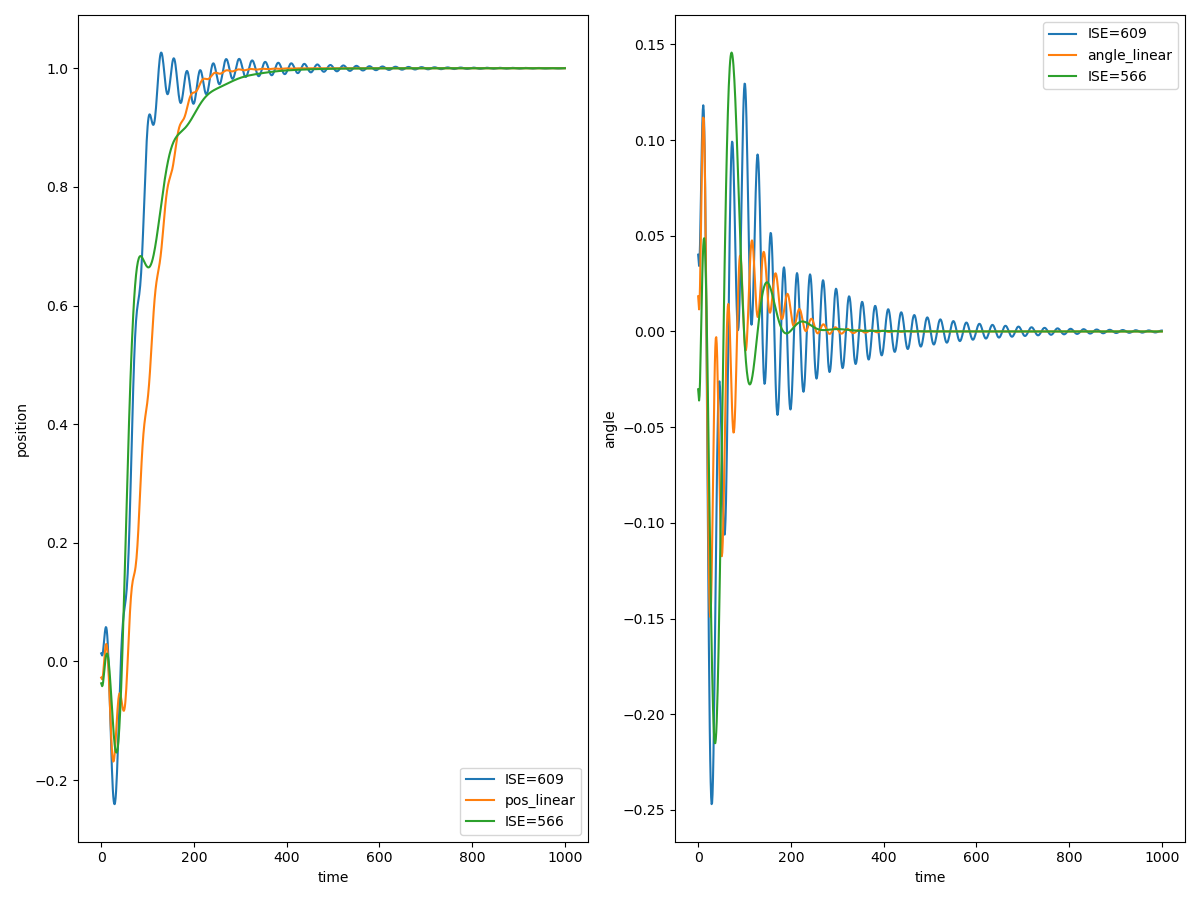
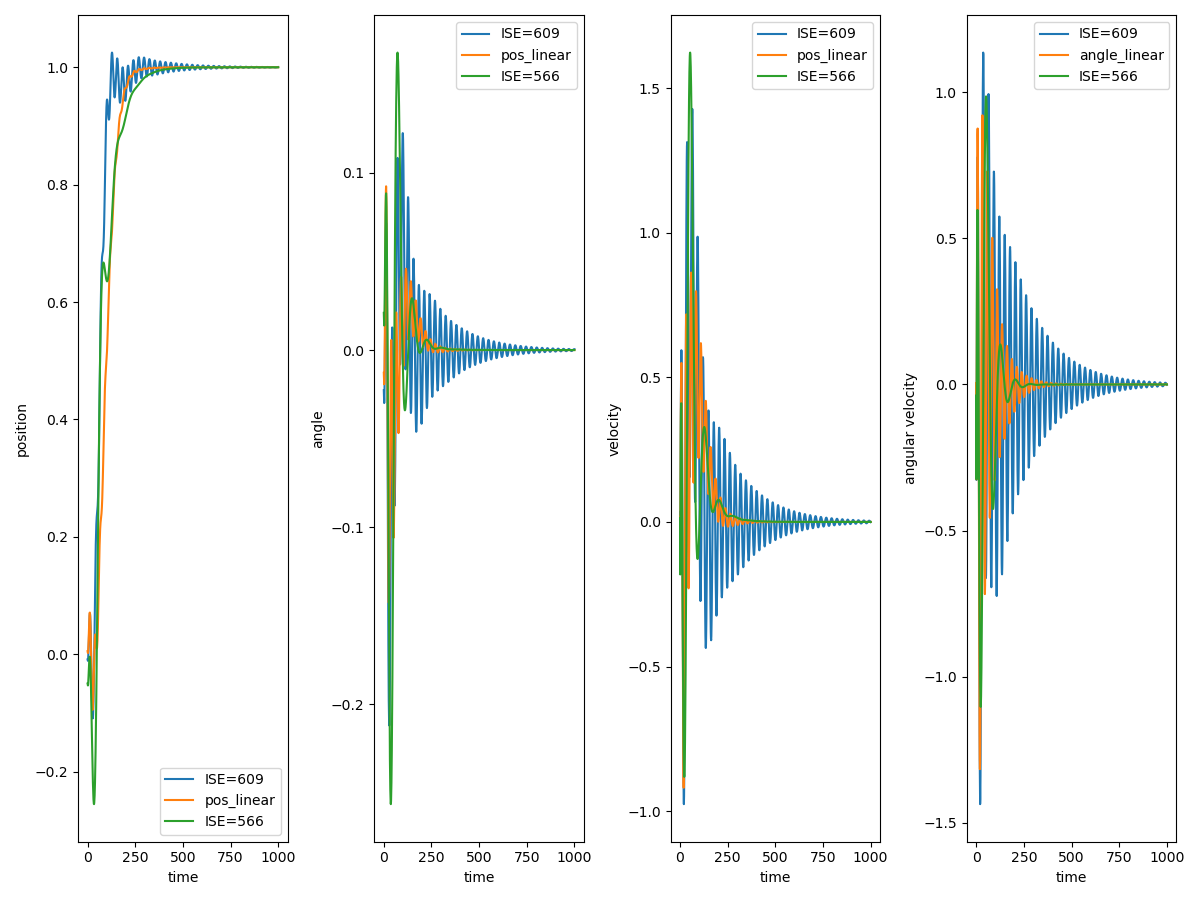
added graphs of v, w

diff --git a/convergence.py b/convergence.py
@@ -20,21 +20,21 @@ PID_baseline = np.array([[-57, 103], [-34, 87], [-13,  16]])   # baseline, ISE =
 # run simulation
 # env.iterreset(custom=np.array([0, 0, 0, 0]))
 env.iterreset()
-_, x, theta = env.step(PID)
+_, x, v, theta, w = env.step(PID)
 
 # env.iterreset(custom=np.array([0, 0, 0, 0]))
 env.iterreset()
-_, x_baseline, theta_baseline = env.step(PID_baseline)
+_, x_baseline, v_baseline, theta_baseline, w_baseline = env.step(PID_baseline)
 
 
 # env.iterreset(custom=np.array([0, 0, 0, 0]))
 env.iterreset()
 env.reset(custom_PID_MIMO=np.array([-46, 130, -25, 126, -20, 16]))
 _, _, _, _, lis = env.linstep_MIMO(np.zeros(6, dtype=np.int64))
-x_lin, theta_lin = tuple(lis)
+x_lin, v_lin, theta_lin, w_lin = tuple(lis)
 
 # plot
-fig, axs = plt.subplots(1, 2, figsize=(12, 9))
+fig, axs = plt.subplots(1, 4, figsize=(12, 9))
 
 axs[0].plot(np.linspace(start=0, stop=len(x), num=len(x)), x, label='ISE=609')
 axs[0].plot(np.linspace(start=0, stop=len(x_lin), num=len(x_lin)), x_lin, label='pos_linear')
@@ -44,11 +44,25 @@ axs[0].set_ylabel('position')
 axs[0].legend()
 
 axs[1].plot(np.linspace(start=0, stop=len(theta), num=len(theta)), theta, label='ISE=609')
-axs[1].plot(np.linspace(start=0, stop=len(theta_lin), num=len(theta_lin)), theta_lin, label='angle_linear')
+axs[1].plot(np.linspace(start=0, stop=len(theta_lin), num=len(theta_lin)), theta_lin, label='pos_linear')
 axs[1].plot(np.linspace(start=0, stop=len(theta_baseline), num=len(theta_baseline)), theta_baseline, label='ISE=566')
 axs[1].set_xlabel('time')
 axs[1].set_ylabel('angle')
 axs[1].legend()
+
+axs[2].plot(np.linspace(start=0, stop=len(v), num=len(v)), v, label='ISE=609')
+axs[2].plot(np.linspace(start=0, stop=len(v_lin), num=len(v_lin)), v_lin, label='pos_linear')
+axs[2].plot(np.linspace(start=0, stop=len(v_baseline), num=len(v_baseline)), v_baseline, label='ISE=566')
+axs[2].set_xlabel('time')
+axs[2].set_ylabel('velocity')
+axs[2].legend()
+
+axs[3].plot(np.linspace(start=0, stop=len(w), num=len(w)), w, label='ISE=609')
+axs[3].plot(np.linspace(start=0, stop=len(w_lin), num=len(w_lin)), w_lin, label='angle_linear')
+axs[3].plot(np.linspace(start=0, stop=len(w_baseline), num=len(w_baseline)), w_baseline, label='ISE=566')
+axs[3].set_xlabel('time')
+axs[3].set_ylabel('angular velocity')
+axs[3].legend()
 
 # show plot
 plt.tight_layout()
